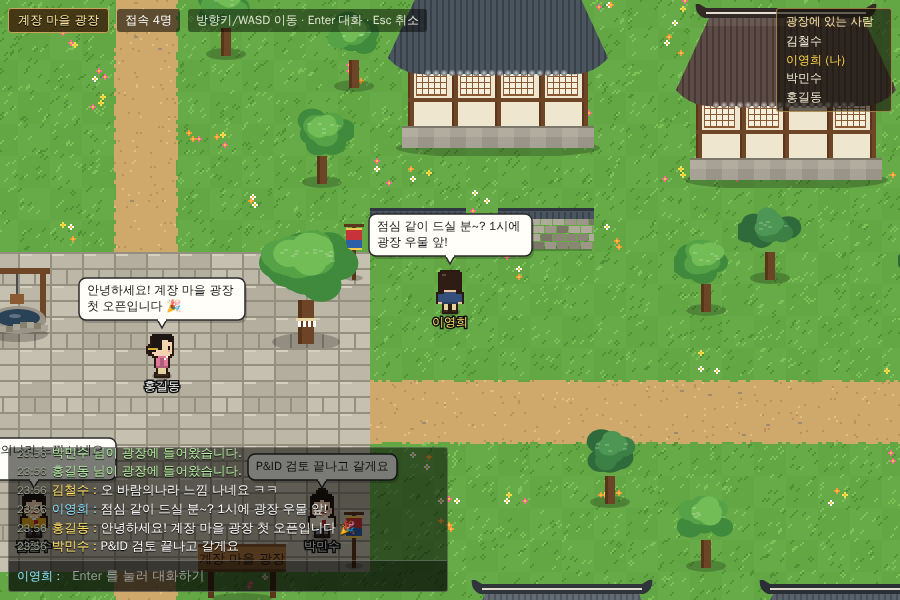
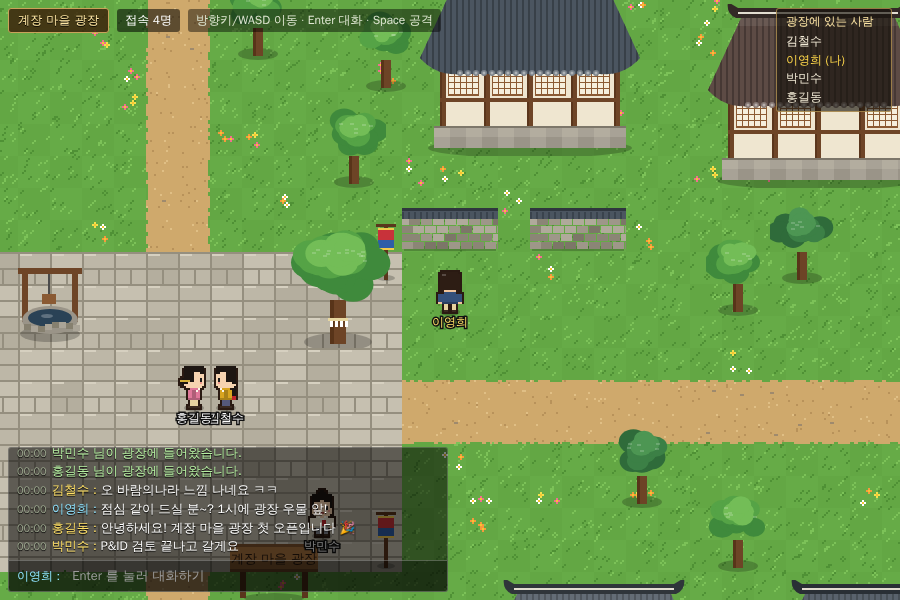
Plaza: Space swings a wooden sword; whoever stands in front flashes red with a hit pop
Server decides who is hit (front tile + same tile, one swing per 0.3s).

Claude-Session: https://claude.ai/code/session_01DB7McHNyNWu23TYcFD71ke

diff --git a/app/static/plaza.js b/app/static/plaza.js
@@ -9,6 +9,7 @@
 const T = 32, W = 56, H = 32;               // 칸 크기 · 지도 칸 수 (서버 MAP_W/MAP_H 와 같다)
 const STEP_MS = 190;                        // 한 칸 걷는 시간
 const PX = 2;                               // 캐릭터 한 점 = 2px
+const ATK_MS = 280, HIT_MS = 520;          // 휘두르기 · 맞은 표시 시간
 const $ = s => document.querySelector(s);
 const Q = new URLSearchParams(location.search);
 const EMBED = Q.get("embed") === "1";
@@ -338,13 +339,39 @@ function charSprite(look, dir, frame) {
   spriteCache.set(key, c); return c;
 }
 function shadeOk(c) { return shade(c, -.22); }
+const tintCache = new WeakMap();
+function tinted(img) {                      // 맞은 순간 — 붉게 번쩍
+  let c = tintCache.get(img); if (c) return c;
+  c = canvas(img.width, img.height); const g = c.getContext("2d");
+  g.drawImage(img, 0, 0); g.globalCompositeOperation = "source-atop"; g.fillStyle = "rgba(255,70,50,.65)"; g.fillRect(0, 0, c.width, c.height);
+  tintCache.set(img, c); return c;
+}
+// 목검을 휘두른다 — 바라보는 쪽으로 반원을 긋고 흰 칼바람을 남긴다
+const BASE_ANG = { 0: Math.PI / 2, 1: -Math.PI / 2, 2: Math.PI, 3: 0 };
+function drawSwing(g, sx, sy, dir, k) {
+  const px = sx + 16 + (dir === 2 ? -4 : dir === 3 ? 4 : 0), py = sy + 6 + (dir === 0 ? 2 : dir === 1 ? -4 : 0);
+  const side = dir === 2 ? -1 : 1, span = 1.35, base = BASE_ANG[dir];
+  const ease = 1 - Math.pow(1 - k, 3), ang = base - side * span + side * 2 * span * ease;
+  g.save();
+  g.globalAlpha = .75 * (1 - k * .6); g.strokeStyle = "#ffffff"; g.lineWidth = 5; g.lineCap = "round";
+  g.beginPath(); g.arc(px, py, 22, Math.min(base - side * span, ang), Math.max(base - side * span, ang)); g.stroke();
+  g.globalAlpha = .35 * (1 - k); g.lineWidth = 9; g.strokeStyle = "#cfe9ff";
+  g.beginPath(); g.arc(px, py, 19, Math.min(base - side * span, ang), Math.max(base - side * span, ang)); g.stroke();
+  g.globalAlpha = 1; g.translate(px, py); g.rotate(ang);
+  g.fillStyle = "#2a1a12"; g.fillRect(3, -3, 25, 6);                       // 테두리
+  g.fillStyle = "#d8b07a"; g.fillRect(9, -2, 18, 4); g.fillStyle = "#f0d3a2"; g.fillRect(9, -2, 18, 1);   // 목검 날
+  g.fillStyle = "#2a1a12"; g.fillRect(8, -5, 3, 10);                       // 코등이
+  g.fillStyle = "#6e4527"; g.fillRect(3, -2, 5, 4);                        // 손잡이
+  g.restore();
+}
 
 // ── 상태 ───────────────────────────────────────────────────────────────
 const S = { id: null, name: "", look: 0, me: null, others: new Map(), logSeq: 0, typing: false, keys: new Set(), lastDir: 0 };
 const cv = $("#pz-map"), ctx = cv.getContext("2d");
 
 function newActor(p) { return { id: p.id, name: p.name, look: p.look, tx: p.x, ty: p.y, x: p.x * T, y: p.y * T,
-  dir: p.dir || 0, gx: p.x, gy: p.y, from: null, t0: 0, moving: false, steps: 0, bubble: null, sayseq: p.say_seq || 0 }; }
+  dir: p.dir || 0, gx: p.x, gy: p.y, from: null, t0: 0, moving: false, steps: 0, bubble: null, sayseq: p.say_seq || 0,
+  actseq: p.act_seq || 0, hitseq: p.hit_seq || 0, attack: 0, hit: null }; }
 
 function walkable(x, y) { return inside(x, y) && !solid[at(x, y)]; }
 function spawn() {                          // 이름마다 늘 같은 자리에서 시작한다
@@ -386,13 +413,20 @@ function applySnapshot(s) {
   const seen = new Set();
   for (const p of s.players) {
     seen.add(p.id);
-    if (p.id === S.id) { if (p.say && p.say_seq !== S.me.sayseq) { S.me.sayseq = p.say_seq; } continue; }
+    const tnow = performance.now();
+    if (p.id === S.id) {
+      if (p.say && p.say_seq !== S.me.sayseq) S.me.sayseq = p.say_seq;
+      if (p.hit_seq !== S.me.hitseq) { S.me.hitseq = p.hit_seq; if (p.hit_age < .8) S.me.hit = { t0: tnow - p.hit_age * 1000, by: p.hit_by }; }
+      continue;
+    }
     let a = S.others.get(p.id);
     if (!a) { a = newActor(p); S.others.set(p.id, a); }
     a.name = p.name; a.look = p.look;
     a.gx = p.x; a.gy = p.y;
     if (Math.abs(p.x - a.tx) + Math.abs(p.y - a.ty) > 3) { a.tx = p.x; a.ty = p.y; a.x = p.x * T; a.y = p.y * T; a.moving = false; }
     if (!a.moving && a.tx === a.gx && a.ty === a.gy) a.dir = p.dir;
+    if (p.act_seq !== a.actseq) { a.actseq = p.act_seq; if (p.act_age < .6) a.attack = tnow - p.act_age * 1000; }
+    if (p.hit_seq !== a.hitseq) { a.hitseq = p.hit_seq; if (p.hit_age < .8) a.hit = { t0: tnow - p.hit_age * 1000, by: p.hit_by }; }
     if (p.say && p.say_seq !== a.sayseq) { a.sayseq = p.say_seq; a.bubble = { text: p.say, until: performance.now() + p.say_left * 1000 }; }
   }
   for (const id of [...S.others.keys()]) if (!seen.has(id)) S.others.delete(id);
@@ -423,7 +457,7 @@ function stepActor(a, now, mine) {
     a.x = (a.from[0] + (a.tx - a.from[0]) * k) * T; a.y = (a.from[1] + (a.ty - a.from[1]) * k) * T;
     if (k >= 1) { a.moving = false; a.steps++; }
   }
-  if (!a.moving && mine) {
+  if (!a.moving && mine && !(a.attack && now - a.attack < ATK_MS)) {
     const d = heldDir();
     if (d != null && !S.typing) {
       const [dx, dy] = DIRV[d]; const changed = a.dir !== d; a.dir = d;
@@ -507,8 +541,17 @@ function frame(now) {
     const a = it.a, k = a.moving ? Math.min(1, (now - a.t0) / STEP_MS) : 0;
     const fr = a.moving && k > .15 && k < .85 ? (a.steps % 2 ? 1 : 2) : 0;
     const sx = Math.round(a.x - cx), sy = Math.round(a.y - cy);
+    const atk = a.attack && now - a.attack < ATK_MS ? (now - a.attack) / ATK_MS : -1;
+    const hit = a.hit && now - a.hit.t0 < HIT_MS ? (now - a.hit.t0) / HIT_MS : -1;
+    let ox = 0, oy = 0;
+    if (atk >= 0) { const [dx, dy] = DIRV[a.dir], l = Math.sin(atk * Math.PI) * 3; ox = Math.round(dx * l); oy = Math.round(dy * l); }
+    if (hit >= 0 && hit < .5) ox += Math.round(Math.sin(hit * 60) * 2);
     ell(ctx, sx + 16, sy + 28, 10, 4, "rgba(0,0,0,.25)");
-    ctx.drawImage(charSprite(a.look, a.dir, fr), sx - 2, sy + 28 - 46 - 2 - (fr ? 1 : 0));
+    if (atk >= 0 && a.dir === 1) drawSwing(ctx, sx + ox, sy + oy, a.dir, atk);
+    const spr = charSprite(a.look, a.dir, atk >= 0 ? 0 : fr);
+    ctx.drawImage(hit >= 0 && hit < .6 && Math.floor(hit * 12) % 2 === 0 ? tinted(spr) : spr,
+                  sx - 2 + ox, sy + 28 - 46 - 2 - (fr && atk < 0 ? 1 : 0) + oy);
+    if (atk >= 0 && a.dir !== 1) drawSwing(ctx, sx + ox, sy + oy, a.dir, atk);
   }
   const boxes = [];
   for (const a of actors) {                 // 이름 · 말풍선은 맨 위
@@ -528,11 +571,28 @@ function frame(now) {
     placed.push(b);
   }
   for (const b of placed) drawBubble(ctx, b);
+  for (const a of actors) if (a.hit && now - a.hit.t0 < HIT_MS + 300) {   // 퍽!
+    const k = (now - a.hit.t0) / (HIT_MS + 300), sx = Math.round(a.x - cx) + 16, sy = Math.round(a.y - cy);
+    ctx.save(); ctx.globalAlpha = Math.max(0, 1 - k * k);
+    ctx.font = `bold ${15 + Math.round((1 - k) * 4)}px ${FONT}`; ctx.textAlign = "center"; ctx.textBaseline = "bottom";
+    const ty = sy + 2 - Math.round(k * 16), tx = sx + 24;      // 머리 옆 (말풍선 꼬리와 겹치지 않게)
+    ctx.lineWidth = 4; ctx.strokeStyle = "#3a0d06"; ctx.strokeText("퍽!", tx, ty);
+    ctx.fillStyle = "#ffdf3d"; ctx.fillText("퍽!", tx, ty);
+    if (k < .45) for (let i = 0; i < 6; i++) { const ang = i / 6 * Math.PI * 2 + k * 3, r = 10 + k * 24;
+      ctx.fillStyle = i % 2 ? "#fff6b0" : "#ff9a3c"; ctx.fillRect(Math.round(sx + Math.cos(ang) * r) - 2, Math.round(sy + 6 + Math.sin(ang) * r * .7) - 2, 4, 4); }
+    ctx.restore();
+  }
 }
 
 // ── 자판 · 대화 ─────────────────────────────────────────────────────────
 const input = $("#pz-input"), chatBox = document.querySelector(".pz-chat");
 function setTyping(on) { S.typing = on; chatBox.classList.toggle("typing", on); if (on) { S.keys.clear(); input.focus(); } else { input.blur(); cv.focus(); } }
+function attack() {                         // 스페이스 — 앞을 휘두른다 (맞은 사람은 서버가 가린다)
+  const now = performance.now();
+  if (!S.me || !S.id || (S.me.attack && now - S.me.attack < ATK_MS + 20)) return;
+  S.me.attack = now;
+  post("/plaza/api/attack", { id: S.id }).catch(e => { if (e.status === 404) join().catch(() => {}); });
+}
 async function say(text) {
   text = text.replace(/\s+/g, " ").trim().slice(0, 80); if (!text || !S.id) return;
   S.me.bubble = { text, until: performance.now() + 7000 };
@@ -549,6 +609,7 @@ document.addEventListener("keydown", ev => {
   }
   if (ev.key === "Escape" && S.typing) { input.value = ""; setTyping(false); return; }
   if (S.typing) return;
+  if (ev.key === " " || ev.code === "Space") { ev.preventDefault(); if (!ev.repeat) attack(); return; }
   if (ev.key in KEYDIR) { ev.preventDefault(); S.keys.delete(ev.key); S.keys.add(ev.key); }
 });
 document.addEventListener("keyup", ev => { S.keys.delete(ev.key); if (ev.key.length === 1) { S.keys.delete(ev.key.toLowerCase()); S.keys.delete(ev.key.toUpperCase()); } });

diff --git a/out/plaza/mock_dashboard.html b/out/plaza/mock_dashboard.html
@@ -34,7 +34,7 @@
    <button id="fold" class="fold">펼치기 ▾</button></h3>
    <div id="hist" class="hist half"><div class="r"><span class="t">10-15 13:41</span><span class="w">백 담당</span><span class="k del">삭제</span><span class="c">입찰</span><span class="x">ㄴㅁㄹ</span></div><div class="r"><span class="t">10-15 13:41</span><span class="w">백 담당</span><span class="k add">추가</span><span class="c">입찰</span><span class="x">ㄴㅁㄹ</span></div><div class="r"><span class="t">10-15 12:39</span><span class="w">구 담당</span><span class="k mod">수정</span><span class="c">통합 업무</span><span class="x">Bypass and Letdown 설계 Guide - Warm-up</span></div><div class="r"><span class="t">10-15 11:11</span><span class="w">백 담당</span><span class="k mod">수정</span><span class="c">통합 업무</span><span class="x">사무환경 개선</span></div><div class="r"><span class="t">10-15 11:11</span><span class="w">백 담당</span><span class="k mod">수정</span><span class="c">통합 업무</span><span class="x">봉사활동</span></div><div class="r"><span class="t">10-15 11:11</span><span class="w">백 담당</span><span class="k mod">수정</span><span class="c">통합 업무</span><span class="x">ITER ECH 고전압전원장치 보고자료 작성</span></div><div class="r"><span class="t">10-15 11:11</span><span class="w">백 담당</span><span class="k mod">수정</span><span class="c">통합 업무</span><span class="x">QCO2 Compressor System Integration 진행현황</span></div><div class="r"><span class="t">10-15 11:11</span><span class="w">백 담당</span><span class="k mod">수정</span><span class="c">통합 업무</span><span class="x">QCO2 Compressor System Integration 팀장회의</span></div><div class="r"><span class="t">10-15 11:10</span><span class="w">백 담당</span><span class="k mod">수정</span><span class="c">통합 업무</span><span class="x">AIPEX 활용방안 설명</span></div><div class="r"><span class="t">10-15 11:10</span><span class="w">백 담당</span><span class="k mod">수정</span><span class="c">통합 업무</span><span class="x">QCO2 Compressor System Integration 사항 공유</span></div></div></div>
  <div class="card plaza"><h3>가상 광장 <small>부서원이 캐릭터로 모이는 곳 — 방향키 이동 · Enter 대화</small></h3>
-   <iframe id="pz" src="http://127.0.0.1:43271/plaza?embed=1&user=%ED%99%8D%EA%B8%B8%EB%8F%99" allow="fullscreen"></iframe></div>
+   <iframe id="pz" src="http://127.0.0.1:52869/plaza?embed=1&user=%ED%99%8D%EA%B8%B8%EB%8F%99" allow="fullscreen"></iframe></div>
 </div>
 <div class="memo"><b>📌 주간회의 전달사항 (최신)</b><br><br>2026-10-14 · 계장ENG그룹 주간회의<br>
  1. 조직건강도(SCI) 진단 (10/14~)<br>2. 하반기 조직개발 시행 (10/27)<br>3. 입찰 프로젝트 현황 공유</div>

diff --git a/app/static/plaza.html b/app/static/plaza.html
@@ -8,12 +8,12 @@
 </head>
 <body>
 <div id="pz" class="pz">
-  <canvas id="pz-map" tabindex="0" aria-label="가상 광장 — 방향키로 움직이고 Enter 로 대화"></canvas>
+  <canvas id="pz-map" tabindex="0" aria-label="가상 광장 — 방향키로 움직이고 Enter 로 대화 · Space 로 공격"></canvas>
 
   <div class="pz-top">
     <span class="pz-title">계장 마을 광장</span>
     <span id="pz-online" class="pz-online">접속 0명</span>
-    <span class="pz-help">방향키/WASD 이동 · Enter 대화 · Esc 취소</span>
+    <span class="pz-help">방향키/WASD 이동 · Enter 대화 · Space 공격</span>
   </div>
 
   <div id="pz-who" class="pz-who" aria-label="광장에 있는 사람"></div>

diff --git a/spike/ui_audit_plaza.py b/spike/ui_audit_plaza.py
@@ -114,7 +114,8 @@ def watch(page, who):
 def walk(page, keys):
     for k, n in keys:
         for _ in range(n):
-            page.keyboard.press(k, delay=210)
+            page.keyboard.press(k, delay=90)      # 한 칸(190ms)보다 짧게 눌러 한 번에 한 칸
+            time.sleep(0.16)
 
 
 def chat(page, text):
@@ -162,6 +163,33 @@ with sync_playwright() as pw:
     time.sleep(0.6)
     chat(others[2][1], "P&ID 검토 끝나고 갈게요")
     time.sleep(1.2)
+
+    # ── 스페이스 공격: 김철수가 홍길동 아래로 걸어가 위를 보고 휘두른다 ──────────
+    kim = others[0][1]
+    def pos():
+        return kim.evaluate("""() => { const S = window.__plaza, h = [...S.others.values()].find(a => a.name === '홍길동');
+          return {me: [S.me.tx, S.me.ty], hong: h ? [h.tx, h.ty] : null}; }""")
+    time.sleep(0.8)
+    pp = pos()
+    hx, hy = pp["hong"]
+    mx, my = pp["me"]
+    kim.click("#pz-map")
+    # 홍길동의 오른쪽 세 칸 → 왼쪽으로 두 칸 걸어 와서 왼쪽을 보고 선다
+    walk(kim, [("ArrowRight" if hx + 3 > mx else "ArrowLeft", abs(hx + 3 - mx))])
+    mx, my = pos()["me"]
+    walk(kim, [("ArrowDown" if hy > my else "ArrowUp", abs(hy - my))])
+    walk(kim, [("ArrowLeft", 2)])
+    time.sleep(0.4)
+    facts["attack_from"] = pos()
+    import base64
+    url = kim.evaluate("""() => new Promise(res => {
+        document.dispatchEvent(new KeyboardEvent('keydown', {key: ' ', code: 'Space', bubbles: true}));
+        setTimeout(() => res(document.querySelector('#pz-map').toDataURL('image/png')), 125); })""")
+    (OUT / "5_공격_휘두르기.png").write_bytes(base64.b64decode(url.split(",", 1)[1]))
+    time.sleep(0.15)
+    dash.locator(".plaza").screenshot(path=str(OUT / "6_대시보드_맞음_퍽.png"))
+    time.sleep(0.6)
+    facts["hong_hit_log"] = kim.evaluate("[...window.__plaza.others.values()].filter(a => a.hit).map(a => a.name + ' ← ' + a.hit.by)")
 
     dash.evaluate("window.scrollTo(0, 0)")
     dash.screenshot(path=str(OUT / "1_대시보드_광장.png"))

diff --git a/tests/test_plaza.py b/tests/test_plaza.py
@@ -76,3 +76,22 @@ def test_screen_rules():
     assert "/plaza" not in (ROOT / "app/static/index.html").read_text(encoding="utf-8")
     m = re.search(r"const T = 32, W = (\d+), H = (\d+);", js)
     assert m and (int(m.group(1)), int(m.group(2))) == (plaza.MAP_W, plaza.MAP_H)
+
+
+def test_space_attack_hits_whoever_stands_in_front(client):
+    a = client.post("/plaza/api/join", json={"name": "김철수", "x": 29, "y": 15}).json()
+    b = client.post("/plaza/api/join", json={"name": "홍길동", "x": 28, "y": 15}).json()
+    c = client.post("/plaza/api/join", json={"name": "이영희", "x": 29, "y": 20}).json()
+    client.post("/plaza/api/move", json={"id": a["id"], "x": 29, "y": 15, "dir": 2})   # 왼쪽을 본다
+    r = client.post("/plaza/api/attack", json={"id": a["id"]}).json()
+    assert r["hit"] == ["홍길동"]
+    snap = {p["name"]: p for p in plaza.snapshot()["players"]}
+    assert snap["홍길동"]["hit_seq"] == 1 and snap["홍길동"]["hit_by"] == "김철수"
+    assert snap["김철수"]["act_seq"] == 1 and snap["이영희"]["hit_seq"] == 0
+    # 한 번 휘두르는 동안 또 누르면 무시
+    assert client.post("/plaza/api/attack", json={"id": a["id"]}).json()["hit"] == []
+    assert plaza.snapshot()["players"][0]["act_seq"] == 1
+    assert client.post("/plaza/api/attack", json={"id": "nope"}).status_code == 404
+    assert c["id"] and b["id"]
+    js = (ROOT / "app/static/plaza.js").read_text(encoding="utf-8")
+    assert '"/plaza/api/attack"' in js and 'ev.code === "Space"' in js

diff --git a/CLAUDE.md b/CLAUDE.md
@@ -4821,6 +4821,8 @@ hotfix89 → 충돌 1 · hotfix90 → 합침, 운영도 합침 · 합친 판은 
 `tests/test_plaza.py` 5건 · 자기검증 `spike/ui_audit_plaza.py` → `out/plaza/` (대시보드 흉내 + 4명).
 **P&ID 메뉴에는 넣지 않는다**(시험이 index.html 에 `/plaza` 가 없음을 못박는다).  대시보드 쪽 '반으로 접기' + 카드는
 대시보드 저장소 몫이라 `docs/dashboard_embed.md` §5 에 프롬프트로만 냈다.  ⚠ 서버를 다시 켜면 광장이 빈다 (대화 기록 없음).
+**Space = 목검 휘두르기** (`POST /plaza/api/attack` · 0.3초에 한 번) — 맞는 사람은 **서버가** 가린다(바라보는 앞 칸 + 같은 칸 ·
+`hit_seq`/`hit_by`) · 화면은 휘두르기(목검 + 흰 칼바람 · 앞으로 한 발) · 맞은 사람 붉게 번쩍 + 흔들림 + "퍽!".  체력·점수 없음.
 
 ## 4. 미해결 과제 (다음 단계 후보) — 우선순위 순
 
